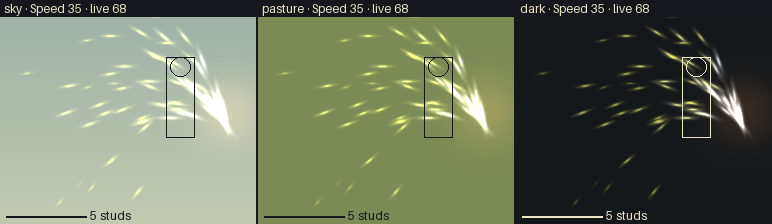
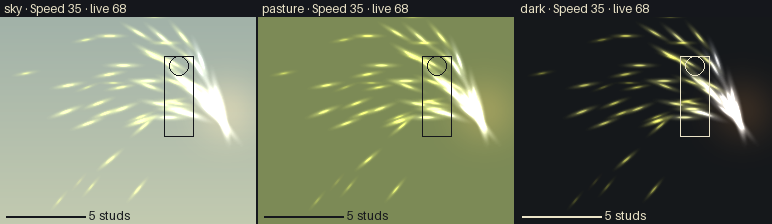
WIP: lane outputs in progress
Claude-Session: https://claude.ai/code/session_013yQesN2yWbsehRvzwWPTWA

diff --git a/rr-game-feel/scripts/feel.py b/rr-game-feel/scripts/feel.py
@@ -548,14 +548,20 @@ def validate(model, strict=False):
         lm = metrics(model, name, profile="loud")
         if lm["cam_px"] > lim["tier_shake_px"][tier] * 1.25:
             warns.append(f"{where}: loud profile moves the camera {lm['cam_px']} px (tier {tier} limit x1.25)")
-    # hierarchy: a lower tier may beat single events of a higher tier, never most of it (median); pairs are noted
+    # hierarchy: a lower tier may beat single events of a higher tier, never most of it (median); pairs are noted.
+    # quiet_ok (its weight lives in sound or the world) leaves an event out of its tier's median; loud_ok lets an
+    # event exceed it; both say why and are shown to critics
     pairs, _ = hierarchy(model, loud)
+    evs = r["events"]
     for hi in sorted({t for t, _ in loud.values()}):
-        med = statistics.median(l for t, l in loud.values() if t == hi)
+        base = [l for n, (t, l) in loud.items() if t == hi and not evs[n].get("quiet_ok")]
+        if not base:
+            continue
+        med = statistics.median(base)
         for name, (t, l) in loud.items():
-            if t > hi and l > med + 1e-9:
+            if t > hi and l > med + 1e-9 and not evs[name].get("loud_ok"):
                 warns.append(f"hierarchy: {name} (tier {t}, loudness {l}) is louder than most tier {hi} events "
-                             f"(median {med:.3f})")
+                             f"(median {med:.3f}): make it quieter, or say why in loud_ok")
     n_pairs = sum(len(v) for v in pairs.values())
     if n_pairs:
         notes.append(f"hierarchy: {n_pairs} single pairs where a lower tier outshouts a higher-tier event "
@@ -788,10 +794,12 @@ def spec_event(model, name):
 def hier_line(model, name, pairs=None):
     pairs = pairs or hierarchy(model)[0]
     beats = pairs.get(name, [])
+    ev = model.events[name]
+    why = "".join(f" {k}: {ev[k]}." for k in ("loud_ok", "quiet_ok") if ev.get(k))
     if not beats:
-        return "quieter than every event of a higher tier."
+        return f"quieter than every event of a higher tier.{why}"
     return ("louder than " + ", ".join(f"{o} (tier {model.events[o]['priority']}, {lo:.2f})" for o, lo in beats)
-            + f" at {metrics(model, name)['loudness']:.2f}; quieter than the rest of the higher tiers.")
+            + f" at {metrics(model, name)['loudness']:.2f}; quieter than the rest of the higher tiers.{why}")
 
 
 def spec(model, sel="all"):

diff --git a/rr-vfx-lighting/scripts/preview.py b/rr-vfx-lighting/scripts/preview.py
@@ -3,7 +3,8 @@
 
 preview lighting [LOOKS]  -> lookdev_bpy.py renders (+ phone fallbacks at the phone resolution), sheets, facts.md
                              in OUT/lighting/
-preview vfx [PRESETS]     -> fxsim.py strips + POV composites over the OUT/lighting plates, sheets, facts.md in OUT/vfx/
+preview vfx [NAMES]       -> fxsim.py strips + POV composites over the OUT/lighting plates, sheets, facts.md in OUT/vfx/;
+                             with plates already there (an earlier preview all) it also rebuilds OUT/board/ in seconds
 preview all [NAMES]       -> both, plus OUT/board/: contact.png (phone POV at 1:1 + player views), closeups.png (effect
                              strips at 1:1), one facts.md and manifest.json: the one board `vfx.py crit` judges
 NAMES may mix looks and presets (a pack): POVs put the named loops (+ each look's fx_on) over every named look from
@@ -460,9 +461,12 @@ def run(model, a):
     if a.what in ("lighting", "all"):
         lfacts = lighting(model, P, a, out / "lighting")
         rc |= 1 if lfacts is None else 0
+    if a.what == "vfx":   # effect tuning: reuse the plates and their facts, so the board is rebuilt in seconds
+        fs = [out / "lighting" / f"{slug(n)}{sfx}.facts.json" for n in P["renders"] for sfx in ("", ".phone")]
+        lfacts = [json.loads(f.read_text()) for f in fs if f.is_file()] or None
     if a.what in ("vfx", "all") and P["presets"]:
         stats, povs, notes = effects(model, P, a, out / "vfx", out / "lighting")
-    if a.what == "all" and not rc:
+    if not rc and (a.what == "all" or (a.what == "vfx" and lfacts and povs)):
         board(model, P, a, out, lfacts, stats, povs, notes)
     return rc
 

diff --git a/rr-ui-foundry/SKILL.md b/rr-ui-foundry/SKILL.md
@@ -1,6 +1,6 @@
 ---
 name: rr-ui-foundry
-description: "Risky Rails (Roblox) UI foundry: turns a Claude Design canvas, HTML mock or written brief into production Roblox UI for fixed-layout screens (HUD, modal, lobby panel, buttons, chips, tickets). One JSON screen spec drives the critic boards (phone, notched phone, tablet, PC, console; every state and skin; a kit board of every component state) and a generated Luau package: Scale layout with pinned margins and own fit on small screens, safe areas, live jump-button and thumbstick avoidance, components bound to rr-bible colour roles so one token change or Kit.setSkin reskins every screen, state machines, gamepad and console navigation, reduce motion, and a Rojo export gated by validate, luaparse, the canon check and Lua parity plus runtime tests. Use whenever Risky Rails needs a HUD, menu, lobby panel, modal, button, chip or ticket built, exported, reskinned, or made phone, gamepad or console safe, or a mission has a UI deliverable. Not for scrolling lists or text input yet, critique only (multiuse-critic), juice (rr-game-feel) or 3D."
+description: "Risky Rails (Roblox) UI foundry: turns a Claude Design canvas, HTML mock or brief into production Roblox UI for fixed-layout screens (HUD, modal, lobby panel, buttons, chips). One JSON screen spec drives the critic boards (phone, notched phone, tablet, PC, console; every state and skin; a kit board of every component state) and a generated Luau package: Scale layout with pinned margins and own fit on small screens, safe areas, live jump-button and thumbstick avoidance, components bound to rr-bible colour roles so one token change or Kit.setSkin reskins every screen, state machines, gamepad/console navigation, reduce motion, and a Rojo export gated by validate, luaparse, the canon check and Lua parity plus runtime tests. Use whenever Risky Rails needs a HUD, menu, lobby panel, modal, button, chip or ticket built, exported, reskinned, or made phone, gamepad or console safe, or a mission has UI to deliver. Not for scrolling lists or text input yet, critique only (multiuse-critic), juice (rr-game-feel) or 3D."
 ---
 
 # RR UI Foundry
